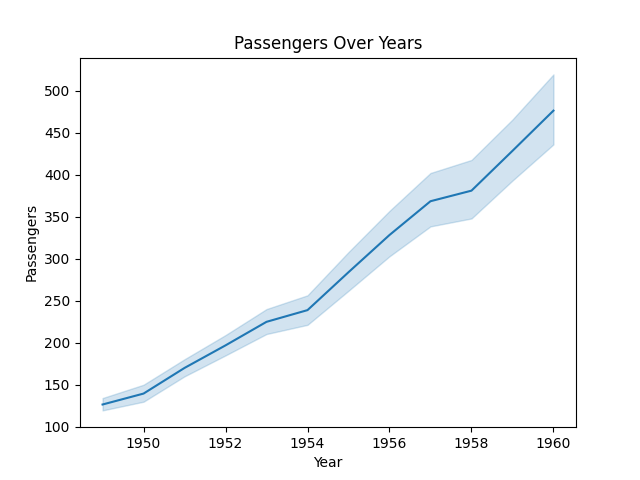
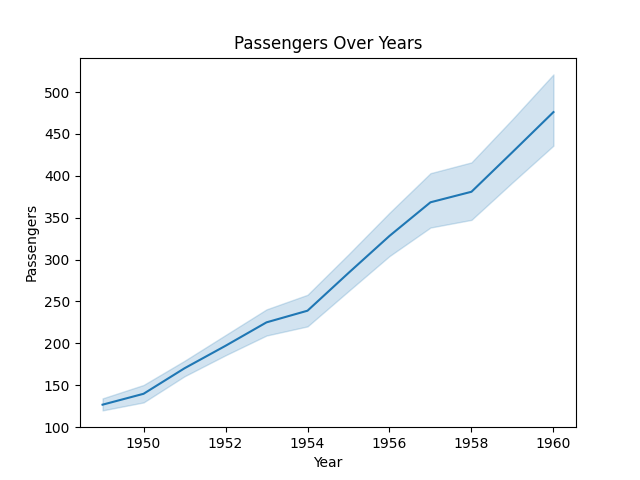
Completed Task 4 - Data Analysis

diff --git a/README.md b/README.md
@@ -1,6 +1,8 @@
-## Task 3: Decision Tree Model
+## Task 4: Data Analysis
 
-Built a classification model using Decision Tree algorithm on the Iris dataset.
+Performed analysis on the flights dataset using visualizations.
 
-### Outcome:
-The model was able to predict the category of flowers with high accuracy.
+### Insights:
+- Passenger count increased over the years
+- Seasonal trends observed across months
+- Heatmap shows peak travel periods
